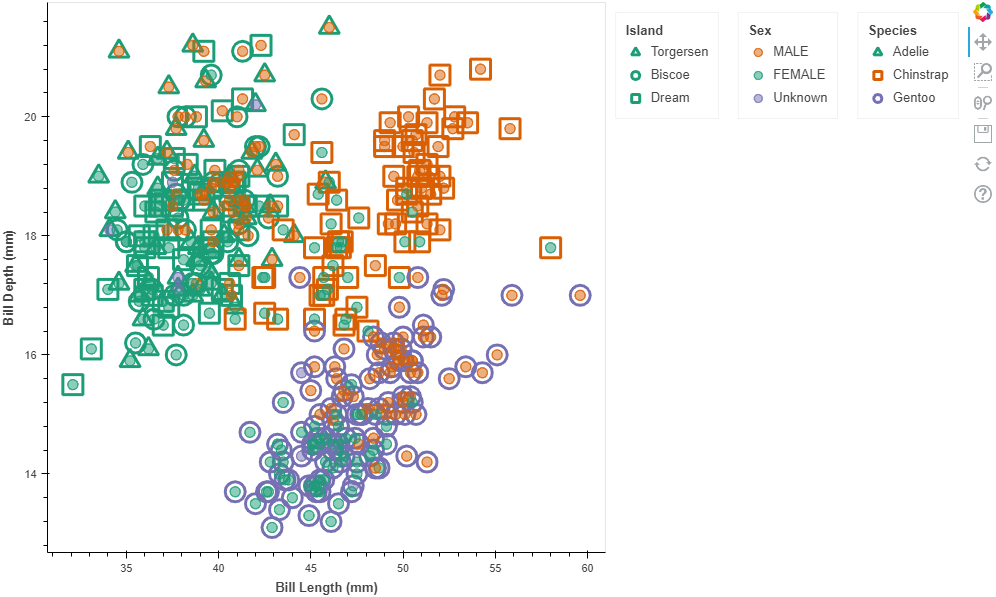
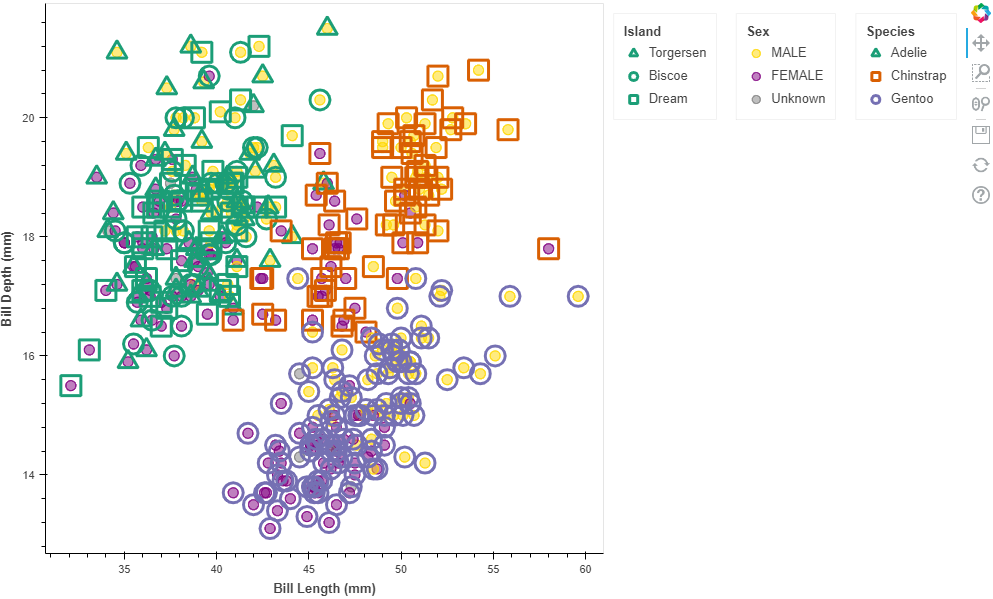
mapping-specific palettes, markers and patterns

diff --git a/Algebrokeh/README.md b/Algebrokeh/README.md
@@ -33,8 +33,8 @@ colmetadata!(data, :bill_depth_mm, "label", "Bill Depth (mm)"; style=:note)
 # whose value start with "@" map columns from the data to visual properties on the glyph.
 # Use * to combine plots and + to layer them up.
 plot(data, Scatter, x="@bill_length_mm", y="@bill_depth_mm") * (
-  plot(color="@species", marker="@island", size=20, fill_alpha=0, line_width=3) +
-  plot(color="@sex")
+  plot(color="@sex" => (palette=["purple", "gold", "grey"],)) +
+  plot(color="@species", marker="@island", size=20, fill_alpha=0, line_width=3)
 )
 ```
 
